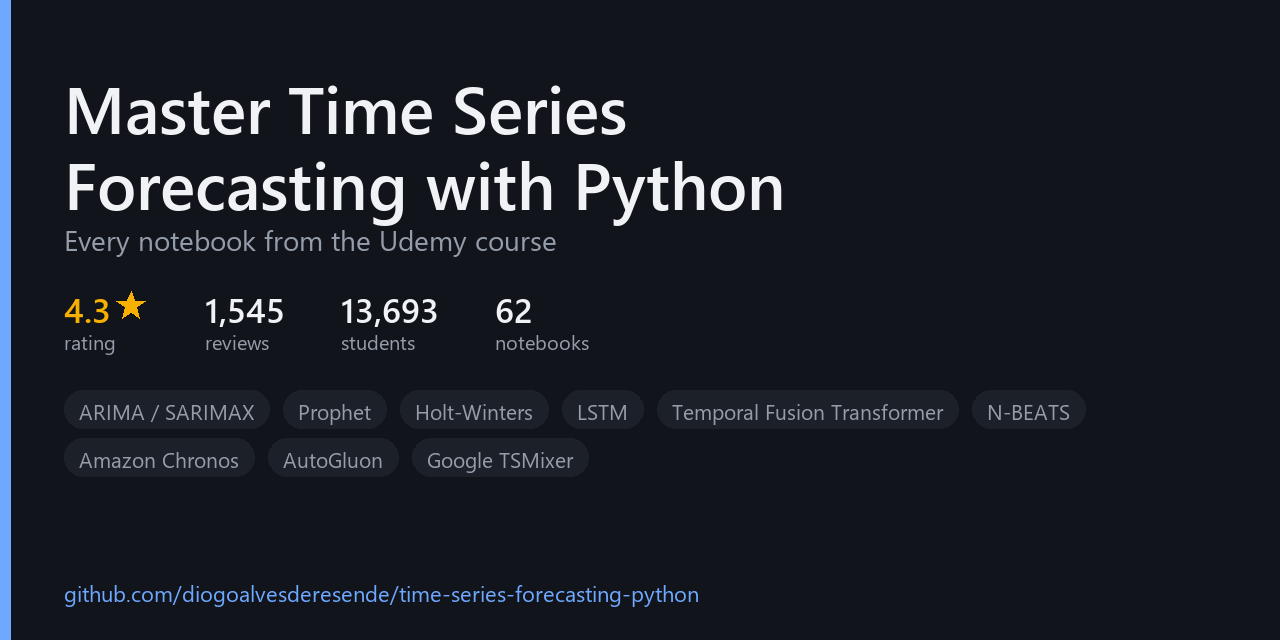
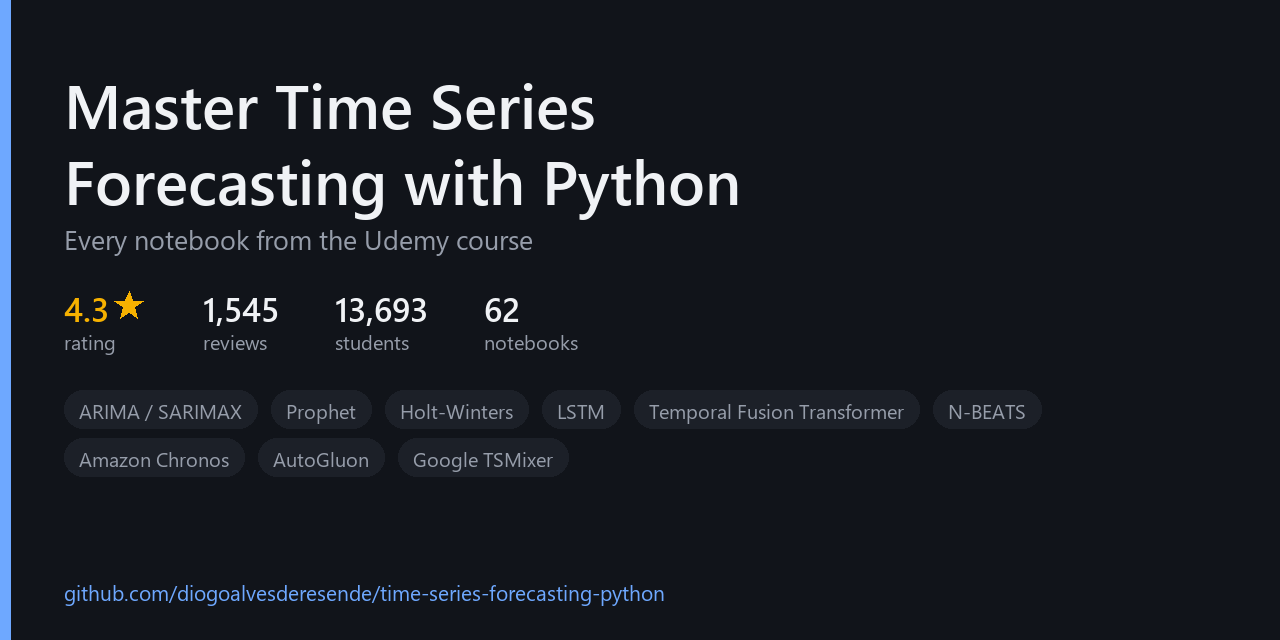
Fix the social preview font fallback on Linux runners
The CI-built card was unreadable. The script asked for Segoe UI by filename,
which does not exist on an Ubuntu runner, and PIL quietly fell back to its
default bitmap font: 1280x640 of near-invisible text.

Fonts are now requested by weight against a candidate list covering Windows,
Linux and macOS, and the script exits with a clear message rather than drawing a
broken card if none resolve. The workflow also installs fonts-dejavu-core.

diff --git a/scripts/make_social_preview.py b/scripts/make_social_preview.py
@@ -36,13 +36,31 @@ STATS = [("4.3", "rating", GOLD), ("1,545", "reviews", FG),
          ("13,693", "students", FG), ("62", "notebooks", FG)]
 
 
-def font(name: str, size: int):
-    for candidate in (name, f"C:/Windows/Fonts/{name}"):
+# Windows has Segoe UI, CI runners have DejaVu. Falling through to PIL's default
+# bitmap font produces an unreadable card, so try hard before giving up.
+FONTS = {
+    "bold": ["seguisb.ttf", "C:/Windows/Fonts/seguisb.ttf",
+             "arialbd.ttf", "C:/Windows/Fonts/arialbd.ttf",
+             "/usr/share/fonts/truetype/dejavu/DejaVuSans-Bold.ttf",
+             "DejaVuSans-Bold.ttf",
+             "/System/Library/Fonts/Supplemental/Arial Bold.ttf"],
+    "regular": ["segoeui.ttf", "C:/Windows/Fonts/segoeui.ttf",
+                "arial.ttf", "C:/Windows/Fonts/arial.ttf",
+                "/usr/share/fonts/truetype/dejavu/DejaVuSans.ttf",
+                "DejaVuSans.ttf",
+                "/System/Library/Fonts/Supplemental/Arial.ttf"],
+}
+
+
+def font(weight: str, size: int):
+    for candidate in FONTS[weight]:
         try:
             return ImageFont.truetype(candidate, size)
         except OSError:
             continue
-    return ImageFont.load_default()
+    raise SystemExit(
+        f"No usable {weight} TrueType font found. Install DejaVu "
+        "(fonts-dejavu-core) or run this on a machine with Segoe UI or Arial.")
 
 
 def star(d, cx, cy, r, fill):
@@ -65,12 +83,12 @@ def main() -> None:
     img = Image.new("RGB", (W, H), BG)
     d = ImageDraw.Draw(img)
 
-    f_title = font("seguisb.ttf", 66)
-    f_sub = font("segoeui.ttf", 28)
-    f_stat = font("seguisb.ttf", 34)
-    f_label = font("segoeui.ttf", 20)
-    f_chip = font("segoeui.ttf", 21)
-    f_foot = font("segoeui.ttf", 22)
+    f_title = font("bold", 62)
+    f_sub = font("regular", 27)
+    f_stat = font("bold", 33)
+    f_label = font("regular", 20)
+    f_chip = font("regular", 20)
+    f_foot = font("regular", 21)
 
     # accent bar down the left edge
     d.rectangle([0, 0, 10, H], fill=ACCENT)
